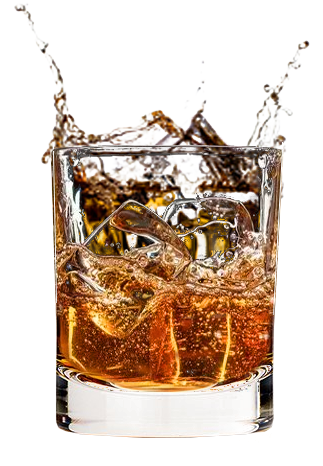
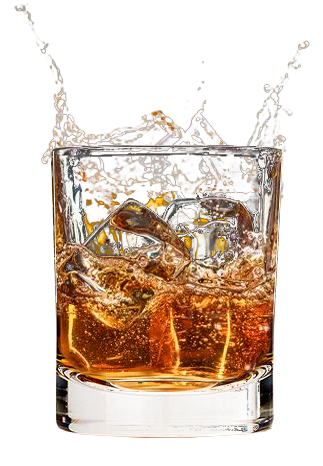
looks great

diff --git a/scss/main.scss b/scss/main.scss
@@ -67,10 +67,11 @@ body {
                 width: 300px;
                 height: 150px;
                 transition: 0.5s linear;
+                overflow: hidden;
                 .platecrash {
                     position: absolute;
-                    width: 100%;
-                    height: 100%;
+                    width: 300px;
+                    height: 150px;
                     transition: transform 0.2s 0.5s linear, opacity 1s 1s ease-in;
                 }
 
@@ -82,7 +83,7 @@ body {
                             opacity: 0;
                         }
                         &:nth-child(2) {
-                            transform: translateX(-20%);
+                            transform: translateX(-5%);
                             opacity: 0;
                         }
                         &:nth-child(3) {
@@ -263,22 +264,22 @@ body {
             justify-content: center;
             .whiskey_wrapper {
                 width: 300px;
-                height: 400px;
+                height: 600px;
                 min-width: 300px;
-                min-height: 400px;
+                min-height: 600px;
                 max-width: 300px;
-                max-height: 400px;
+                max-height: 600px;
                 position: relative;
                 overflow: hidden;
                 color: white;
                 .glass {
                     width: 100%;
                     height: 100%;
-                    background-size: auto 100%;
+                    background-size: 100% auto;
                     background-position: center;
                     background-repeat: no-repeat;
                     transition: 0.5s 0.6s;
-                    background-image: url('../resources/images/whiskey1.png');
+                    background-image: url('../resources/images/whiskey33.png');
                 }
                 .icecube_wrapper {
                     position: absolute;
@@ -343,12 +344,18 @@ body {
         h2 {
             font-size: 1.5em;
         }
-        
         section {
             &:nth-child(5) {
-                .stick_textWrapper {
-                    .stick_text {
-                        width: 100vw;
+                &.sticks {
+                    .stick_textWrapper {
+                        .stick_text {
+                            width: calc(100vw -20px);
+                        }
+                    }
+                    .stick_wrapper {
+                        .stick {
+                            height: 50%;;
+                        }
                     }
                 }
             }

diff --git a/css/main.css b/css/main.css
@@ -131,11 +131,12 @@ body {
       top: -200vh;
       width: 300px;
       height: 150px;
-      transition: 0.5s linear; }
+      transition: 0.5s linear;
+      overflow: hidden; }
       .main_wrapper section:nth-child(1) .plate_crash_wrapper .platecrash {
         position: absolute;
-        width: 100%;
-        height: 100%;
+        width: 300px;
+        height: 150px;
         transition: transform 0.2s 0.5s linear, opacity 1s 1s ease-in; }
       .main_wrapper section:nth-child(1) .plate_crash_wrapper.startAnim {
         top: 30%; }
@@ -143,7 +144,7 @@ body {
           transform: translateY(20%);
           opacity: 0; }
         .main_wrapper section:nth-child(1) .plate_crash_wrapper.startAnim .platecrash:nth-child(2) {
-          transform: translateX(-20%);
+          transform: translateX(-5%);
           opacity: 0; }
         .main_wrapper section:nth-child(1) .plate_crash_wrapper.startAnim .platecrash:nth-child(3) {
           transform: translateX(20%);
@@ -273,22 +274,22 @@ body {
       justify-content: center; }
       .main_wrapper section:nth-child(7) .whiskey_wrapper {
         width: 300px;
-        height: 400px;
+        height: 600px;
         min-width: 300px;
-        min-height: 400px;
+        min-height: 600px;
         max-width: 300px;
-        max-height: 400px;
+        max-height: 600px;
         position: relative;
         overflow: hidden;
         color: white; }
         .main_wrapper section:nth-child(7) .whiskey_wrapper .glass {
           width: 100%;
           height: 100%;
-          background-size: auto 100%;
+          background-size: 100% auto;
           background-position: center;
           background-repeat: no-repeat;
           transition: 0.5s 0.6s;
-          background-image: url("../resources/images/whiskey1.png"); }
+          background-image: url("../resources/images/whiskey33.png"); }
         .main_wrapper section:nth-child(7) .whiskey_wrapper .icecube_wrapper {
           position: absolute;
           bottom: calc(100% + 500px);
@@ -335,8 +336,10 @@ body {
     width: 100%; }
     .main_wrapper h2 {
       font-size: 1.5em; }
-    .main_wrapper section:nth-child(5) .stick_textWrapper .stick_text {
-      width: 100vw; }
+    .main_wrapper section:nth-child(5).sticks .stick_textWrapper .stick_text {
+      width: calc(100vw -20px); }
+    .main_wrapper section:nth-child(5).sticks .stick_wrapper .stick {
+      height: 50%; }
     .main_wrapper section:nth-child(6) .kitchen {
       background-size: cover; }
     .main_wrapper section:nth-child(7) {

diff --git a/js/script.js b/js/script.js
@@ -26,13 +26,13 @@ function init() {
             if (glass.style.backgroundImage) {
                 glass.style = null;
             } else {
-                glass.style.backgroundImage = "url('./resources/images/whiskey2.png')";
+                glass.style.backgroundImage = "url('./resources/images/whiskey3.png')";
             }
     
             if (ice.style.bottom) {
                 ice.style = null;
             } else {
-                ice.style.bottom = `${glass.clientHeight*0.2}px`;
+                ice.style.bottom = `${glass.clientHeight*0.3}px`;
                 ice.style.opacity = '1';
                 setTimeout(() => {
                     ice.style.opacity = '0';
